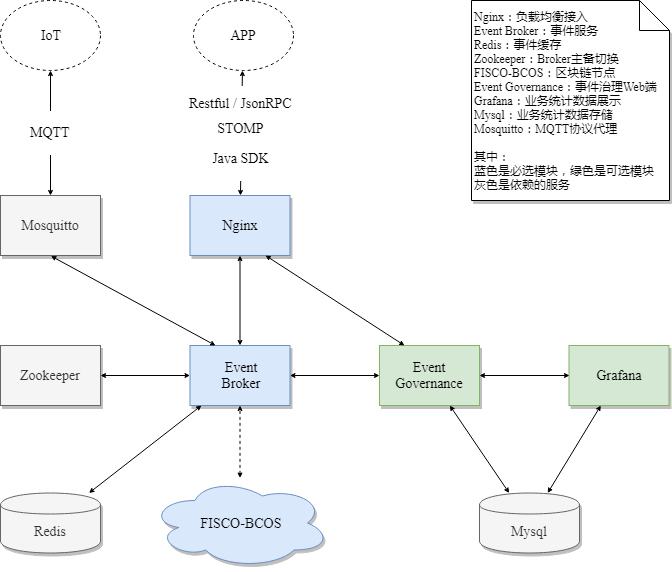
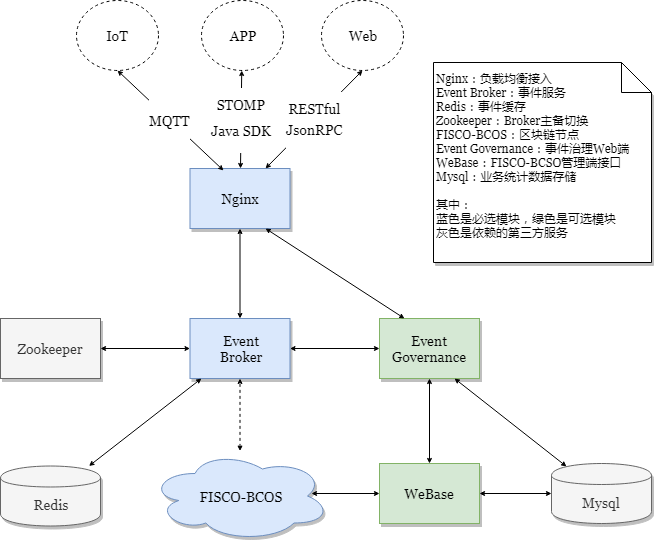
update architecture and change log

diff --git a/docs/introduction/architecture.md b/docs/introduction/architecture.md
@@ -6,11 +6,11 @@
 
 - Nginx
 
-  `WeEvent`服务对外统一的访问入口，负责服务请求的负载均衡。
+  `WeEvent`服务对外统一的访问入口，负责服务请求的负载均衡。支持`RESTful`、`JsonRPC`、`STOMP`、`MQTT`等协议，以及`Java SDK`。
 
 - Broker
 
-  `WeEvent`的事件代理模块，提供核心的事件发布订阅`Publish/Subscribe`和`Topic`管理功能。
+  `WeEvent`的事件代理模块，提供核心的事件发布订阅`Publish`/`Subscribe`和`Topic`管理功能。
 
   其中，使用`Redis`缓存事件，使用`Zookeeper`主备切换。
 
@@ -18,18 +18,13 @@
 
   `WeEvent`的事件治理模块，提供一个`Web`管理端。
 
-  其中，使用`Mysql`数据库存储`Topic`的统计数据，使用`Grafana`展示数据。
-
+  其中，使用`Mysql`数据库存储`Topic`的统计数据，使用[WeBase](https://github.com/WeBankFinTech/WeBASE)访问区块链管理类接口。
+  
 - FISCO-BCOS
-
-  `WeEvent`的事件永久存储在区块链`FISCO-BCOS`上，同时通过区块链来连接各个`WeEvent`服务。
-
-- MQTT代理Mosquitto
-
-  `WeEvent`通过`Mosquitto`（[官方地址](https://mosquitto.org/) ）代理`MQTT`协议，实现物联网`IoT`设备的接入。
-
-  `Mosquitto`是`MQTT`协议的一个开源实现。
+  
+    `WeEvent`的事件永久存储在区块链[FISCO-BCOS](https://github.com/FISCO-BCOS/FISCO-BCOS)上，一个区块链可以对应一个或者多个`WeEvent`服务。
 
 ### 架构设计
 
 ![](../image/WeEventArchitecture.png)
+

diff --git a/docs/history/changelog.md b/docs/history/changelog.md
@@ -2,10 +2,12 @@
 ### 1.0.0版本
 
 - 支持`FISCO-BCOS` 2.0，通过群组解决数据隐私问题。
-
-- 移除`Mosquitto`的依赖，`MQTT`协议内置处理。
-
-  Coming soon.
+- `Topic`最大长度增加到64位，支持事件自定义属性，支持通配符订阅。
+- 通过`AMOP`广播，实现消息上链后对订阅者的实时通知。
+- 移除对`Mosquitto`的依赖，`MQTT`协议内置处理。
+- 支持`Docker`镜像部署。
+- `Governance`支持多视图管理业务，同时增加账号子模块，支持用户登陆。使用`WeBase`管理区块链，移除对`Grafana`的依赖。
+- 整理代码结构，合并为同一个代码工程，支持持续集成。
 
 ### 0.9.0版本
 

diff --git a/docs/install/environment.md b/docs/install/environment.md
@@ -12,10 +12,10 @@
 
 ### 第三方软件
 
-| 软件名        | 推荐版本  | 是否可选 |
-| ---------- | ----- | ---- |
-| FISCO-BCOS | 1.3.8 | 必选   |
-| Mysql      | 5.6.x | 可选   |
-| Redis      | 5.x.x | 可选   |
-| Zookeeper  | 3.5.x | 可选   |
-| Mosquitto  | 1.5.5 | 可选   |
+| 软件名     | 推荐版本 | 是否可选 |
+| ---------- | -------- | -------- |
+| FISCO-BCOS | 1.3.8    | 必选     |
+| Mysql      | 5.6.x    | 可选     |
+| Redis      | 5.x.x    | 可选     |
+| Zookeeper  | 3.5.x    | 可选     |
+| WeBase     | 1.0      | 可选     |
